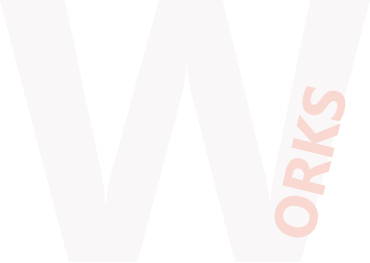
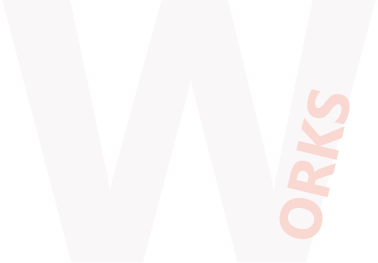
更新版本20170815

Changed region(s): [[0.7432, 0.3346, 0.9514, 0.9125]]

diff --git a/css/style.css b/css/style.css
@@ -13,6 +13,7 @@ body{
     z-index: 10000;
     background-color:#F7F6F5;
 }
+
 ul {
     list-style-type: none;
     margin: 1.45em .8em 1.45em auto;
@@ -30,6 +31,7 @@ ul li {
     margin: 0 16px;
     position:relative;
 }
+
 .content {
     font-size: 13px;
     color: #584e4a;
@@ -84,8 +86,6 @@ ul li {
     transition: transform 0s 0.2s cubic-bezier(0.175, 0.885, 0.32, 1.275), opacity 0s 0.2s;
 }
 
-
-
 .top {
     background-image: url(../img/bg-top.jpg) center center fixed no-repeat;
     background-size: cover;
@@ -99,19 +99,6 @@ ul li {
     --c1: #FFCF57;
     --c2: #A5A5A5;
 
-    /*
-
---base: #FFD7D7;
-    --c1: #FF4545;
-
-        --base: #FFBBBB;
-    --c1: #FF4545;
-    --c2: #A5A5A5;
-
-        
-    --base: #FFD4B0;
-    --c1: #F96A00;
-        */
 }
 @-webkit-keyframes flicker1 {
     95% {
@@ -141,7 +128,6 @@ ul li {
         text-shadow: 0 0 0.05em var(--c1), 0 0 0.1em var(--c2), calc(var(--shift) * 1) calc(var(--shift) * 1) calc(var(--spread) / 50) var(--c1), calc(var(--shift) * -1) calc(var(--shift) * -1) calc(var(--spread) / 50) var(--c1), calc(var(--shift) * 1) calc(var(--shift) * -1) calc(var(--spread) / 50) var(--c1), calc(var(--shift) * -1) calc(var(--shift) * 1) calc(var(--spread) / 50) var(--c1), 0 0 0 var(--base), 0 0 0 var(--base);
     }
 }
-
 
 h3 {
     font-family: 'Lobster', cursive;
@@ -174,7 +160,6 @@ h4 {
     transform: rotate(-9deg);
     color: transparent;
     text-shadow: 0 0 0.05em var(--c1), 0 0 0.1em var(--base), calc(var(--shift) * 1) calc(var(--shift) * 1) calc(var(--spread) / 50) var(--c1), calc(var(--shift) * -1) calc(var(--shift) * -1) calc(var(--spread) / 50) var(--c1), calc(var(--shift) * 1) calc(var(--shift) * -1) calc(var(--spread) / 50) var(--c1), calc(var(--shift) * -1) calc(var(--shift) * 1) calc(var(--spread) / 50) var(--c1), 0 0 var(--spread) var(--base), 0 0 calc(var(--spread) / 1.5) var(--base);
-
 }
 h4 span:nth-child(1) {
     -webkit-animation: flicker1 1s infinite alternate ease-in-out;
@@ -234,7 +219,7 @@ main {
     
     background-color: #F7F6F5; 
     display: block;
-    padding:5em 0 0 0;
+    padding:4.5em 0 0 0;
     margin: 0;
     text-align: center;
 }
@@ -244,25 +229,20 @@ main {
     margin: 0, auto;
     text-align: center;
 }
-
 .my-photo{
-    width: 33%;
+    width: 20%;
 }
-
 .cnname{
     font-family: 微軟正黑體;
     font-size: 16pt;
     font-weight: 700;
-    margin: 1.6em auto 0em auto;
+    margin: .7em auto 0em auto;
 }
-
 .enname2{
     font-size: 10pt;
     font-weight:bold;
-    margin: 0em 2em .3em 2em;
+    margin: -.05em 0em -.3em 0em;
 }
-
-
 .about-line2{
     border-top: 1px solid #FF4545;
     width: 18px;
@@ -274,18 +254,24 @@ main {
     font-size: 9pt;
     font-family: 微軟正黑體;
     font-weight: 700;
+    margin: 2.15em 0em 1em 0em;
+    display:table;
+    text-align: left;
+}
+.about-textimg{
+    width: 44.5%;
     display: inline-block;
-    margin: 2.3em auto 6em -7em;
+    margin: 1.8em auto 0em 0;
+    display: center;
+
+}
+.about-img{
+    width: 50%;
+    display: inline-block;
+    margin: 2.1em auto 5em auto;
     display:table;
 }
-/*
-.my-sign{
-    width: 13%;
-    display: inline-block;
-    margin: 3em auto 5em auto;
-    display:table;
-}
-*/
+
 .works{
     background-color: #F9D8D2; 
     display: block;
@@ -296,28 +282,18 @@ main {
 .works-logo{
     width:15.5%;
     display: block;
-    margin: 1em auto 5.5em auto;
+    margin: -.5em auto 4.5em auto;
 }
-/*
-.works-bg{
-    width:68%;
-    display: block;
-    margin: 0 auto 5em auto;
-}
-*/
-
 .works-bg{
     width:65%;
     display: block;
     margin: 0 auto;
 }
-
 .works-bg1{
     width:100%;
     display: block;
     margin: 6.2em auto 8em auto;
 }
-
 .works-bg2{
     width:1%;
     display: block;
@@ -339,11 +315,10 @@ main {
     width:12%;
     margin: -2.5em -0.5em 1.3em 0;
 }
-
 .portfilio-bg{
     width:65%;
     display: block;
-    margin: 2.8em auto 3.3em auto;
+    margin: 2.5em auto 3.3em auto;
 }
 
 .film{
@@ -352,25 +327,21 @@ main {
     margin: 0 auto;
     text-align: center;
 }
-
 .film-img{
     width: 17.5%;
     display: block;
     margin: 0em auto 3em auto;
 }
-
 .video-01 {
     background-color: #16284C;
     display: block;
-    padding: 5em 0 4.5em 0;
+    padding: 5em 0 4.6em 0;
 }
 .video-01 iframe,
 .video-01 object,
 .video-01 embed {
     border:0px #FFCF57 solid;
 }
-
-
 .film-stext{
     color: #FFF;
     font-size: 3pt;
@@ -378,12 +349,12 @@ main {
     margin: 1.2em 0 0 0;
     }
 
-
 .contact{
     background-color: #F7F6F5;
     display: inline-block;
     text-align: center;
-    margin: 2em 8em 2em 8em;
+    width: 61%;
+    margin: 2em auto;
     text-align: left;
 }
 
@@ -395,7 +366,6 @@ main {
     position: absolute;
     float: left;
 }
-
 .contact-text{
     font-size: 24pt;
     font-weight:bold;
@@ -406,28 +376,25 @@ main {
     padding: 1.3em 0 0 1.5em;
 }
 .enname{
-    font-size: 14pt;
+    font-size: 10pt;
     font-weight:bold;
     color: #545249;
-    margin: 0em 2em .3em 2em;
+    margin: 0 0 .3em -.7em;
 }
-
 .cnname2{
-    font-size: 13pt;
+    font-size: 16pt;
     font-weight:bold;
     font-family: 微軟正黑體;
     color: #545249;
-    margin: 1.3em auto .1em 1.1em;
+    margin: 1.3em 0 .1em 1em;
     text-align: center;
 }
-
 .about-line{
     border-top: 1px solid #848484;
     width: 23px;
     height: 1px;
     display: inline-block;
     margin: 0.3em -1.5em 0.5em 0;
-
 }
 .myemail{
     font-size: 9pt;
@@ -444,12 +411,10 @@ main {
 
 .contact .contact-form {
     display: inline-block;
-    width: 25%;
+    width: 32%;
     float: right;
-    
     position: relative;
 }
-
 .contact .contact-form input,
 .contact .contact-form textarea {
     width: 338px;
@@ -481,7 +446,6 @@ footer {
     text-align: center;
     margin-top:0;
 }
-
 .j-logo{
     display: inline-block;
     padding: 1.8em 0 0 0;
@@ -492,5 +456,4 @@ footer {
     color: white;
     display: block;
     padding: .8em 0 1.9em 0;
-
 }

diff --git a/index.html b/index.html
@@ -19,15 +19,15 @@
       <div id="logo"><a href="index.html" 
           style="text-decoration:none; font-size:24pt; text-align:left; color: #4F4F4F; ">J.LIM</a></div>
       <ul>
-     
         <li><a class="content" href="#a-position">ABOUT</a>
         <li><a class="content" href="#w-position">WORK</a>
-        <li><a class="content" href="#p-position">PORTFILIO</a>
+        <li><a class="content" href="#p-position">PORTFOLIO</a>
         <li><a class="content" href="#f-position">VIDEO</a>
         <li><a class="content" href="#c-position">CONTACT</a>  
       </ul>
     </div>
     <div class="top">
+
       <main>
       <h3 style="letter-spacing:-3px;">
         <span>De</span><span>sign</span>
@@ -45,20 +45,23 @@
       <div class="enname2">JANET LIM</div>
        <!--<div class="about-line"></div>-->
       <div class="about-line2"></div>
+      
       <div class="experience">
-        <p>韓國梨花女子大學 語言進修實踐大學 服裝設計進修言進修實踐大學 服 (2016)</p>
-        <p>網頁平面視覺設計／OB嚴選_橘熊科技股份有限公司嚴選_橘熊科技股份有 (2013)</p>
-        <p>美編設計 業務／寬寬文創有限公司	(2012)\兼任助理／中央研究院歷史</p>
-        <p>韓國梨花女子大學 語言進修實踐大學 服裝設計進修  (2016)</p>
+        <p>我是林曉蘭，畢業於多媒體設計系，主修為平面視覺設計、網頁、影片剪輯製作、動畫等。</p>
+        <p>目前在設計領域有四年多工作經歷，先後在中研院製作講座海報，文創產業擔任平面設計兼</p>
+        <p>業務、OB嚴選網路購物品牌任職網頁視覺設計。曾在實踐大學進修過服裝設計課程，之後赴</p>
+        <p>韓國梨花女子大學留學一年多，取得TOPIK韓語五級檢定。通過這段時間的進修，除了提升</p>
+        <p>語言能力之外，對設計也有更深一層的認識，在知識拓展和整體設計能力有很大的幫助。</p>
       </div>
-       <!--<img class="my-sign" src="img/sign.png">-->
-   </div>
+     
+      <img class="about-textimg" src="img/about-text.png">
+      <img class="about-img" src="img/about-img.png">
+    </div>
     <a name="w-position"><div class="works"></a>
       <img class="works-logo" src="img/w.png">
-    
-    <img class="works-bg" src="img/w-img-bg.png">
-    <img class="works-bg1" src="img/w-img-bg1.png">
-    <img class="works-bg2" src="img/w-img-bg2.png">
+      <img class="works-bg" src="img/w-img-bg.png">
+      <img class="works-bg1" src="img/w-img-bg1.png">
+      <img class="works-bg2" src="img/w-img-bg2.png">
       <a name="p-position"><img class="works-bg3" src="img/w-img-bg3.png"></a> 
     </div> 
  
@@ -70,7 +73,7 @@
     <a name="f-position"><div class="video-01"></a>
       <img class="film-img" src="img/film-logo.png">  
       <iframe src="https://player.vimeo.com/video/228663884" frameborder="0" width="680" height="383"></iframe>
-      <div class="film-stext"> 2017 Souel , Korea - Produced by Janet Lim &nbsp;&nbsp;&nbsp; # Video Editor - EDIUS</div>
+      <div class="film-stext"> EWHA ELC , Korea - Produced by Janet Lim &nbsp;&nbsp;&nbsp; # Video Editor - EDIUS &nbsp;&nbsp;&nbsp;# 2017 梨大語學堂影片比賽</div>
     </div>
 
     <a name="c-position"><div class="contact"></a>
@@ -97,10 +100,9 @@
   
   <footer>
     <img class="j-logo" src="img/j-logo.png">
-    <div class="copyright">Designed by Janet Lim 2017 </div>
+    <div class="copyright">© 2017 Designed by Janet Lim  </div>
   </footer>
 
   </body>
-
 
 </html>
